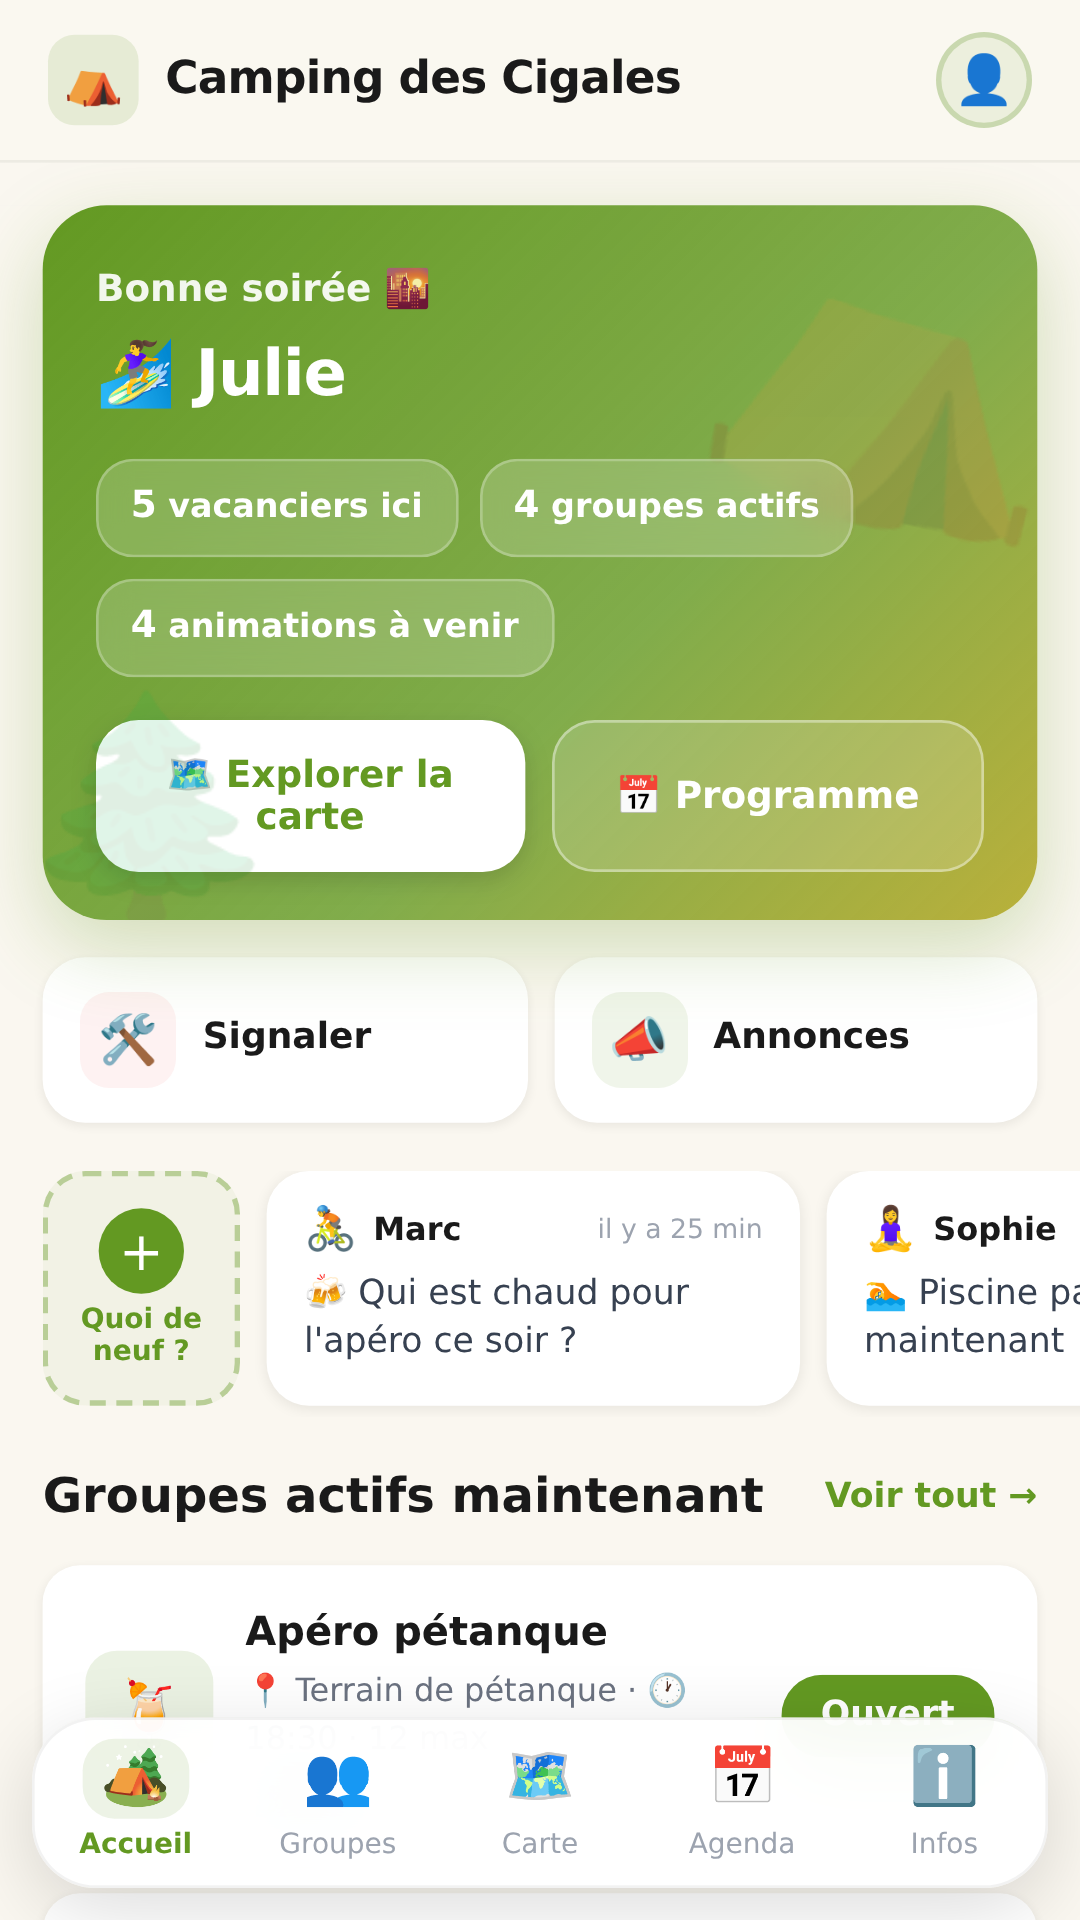
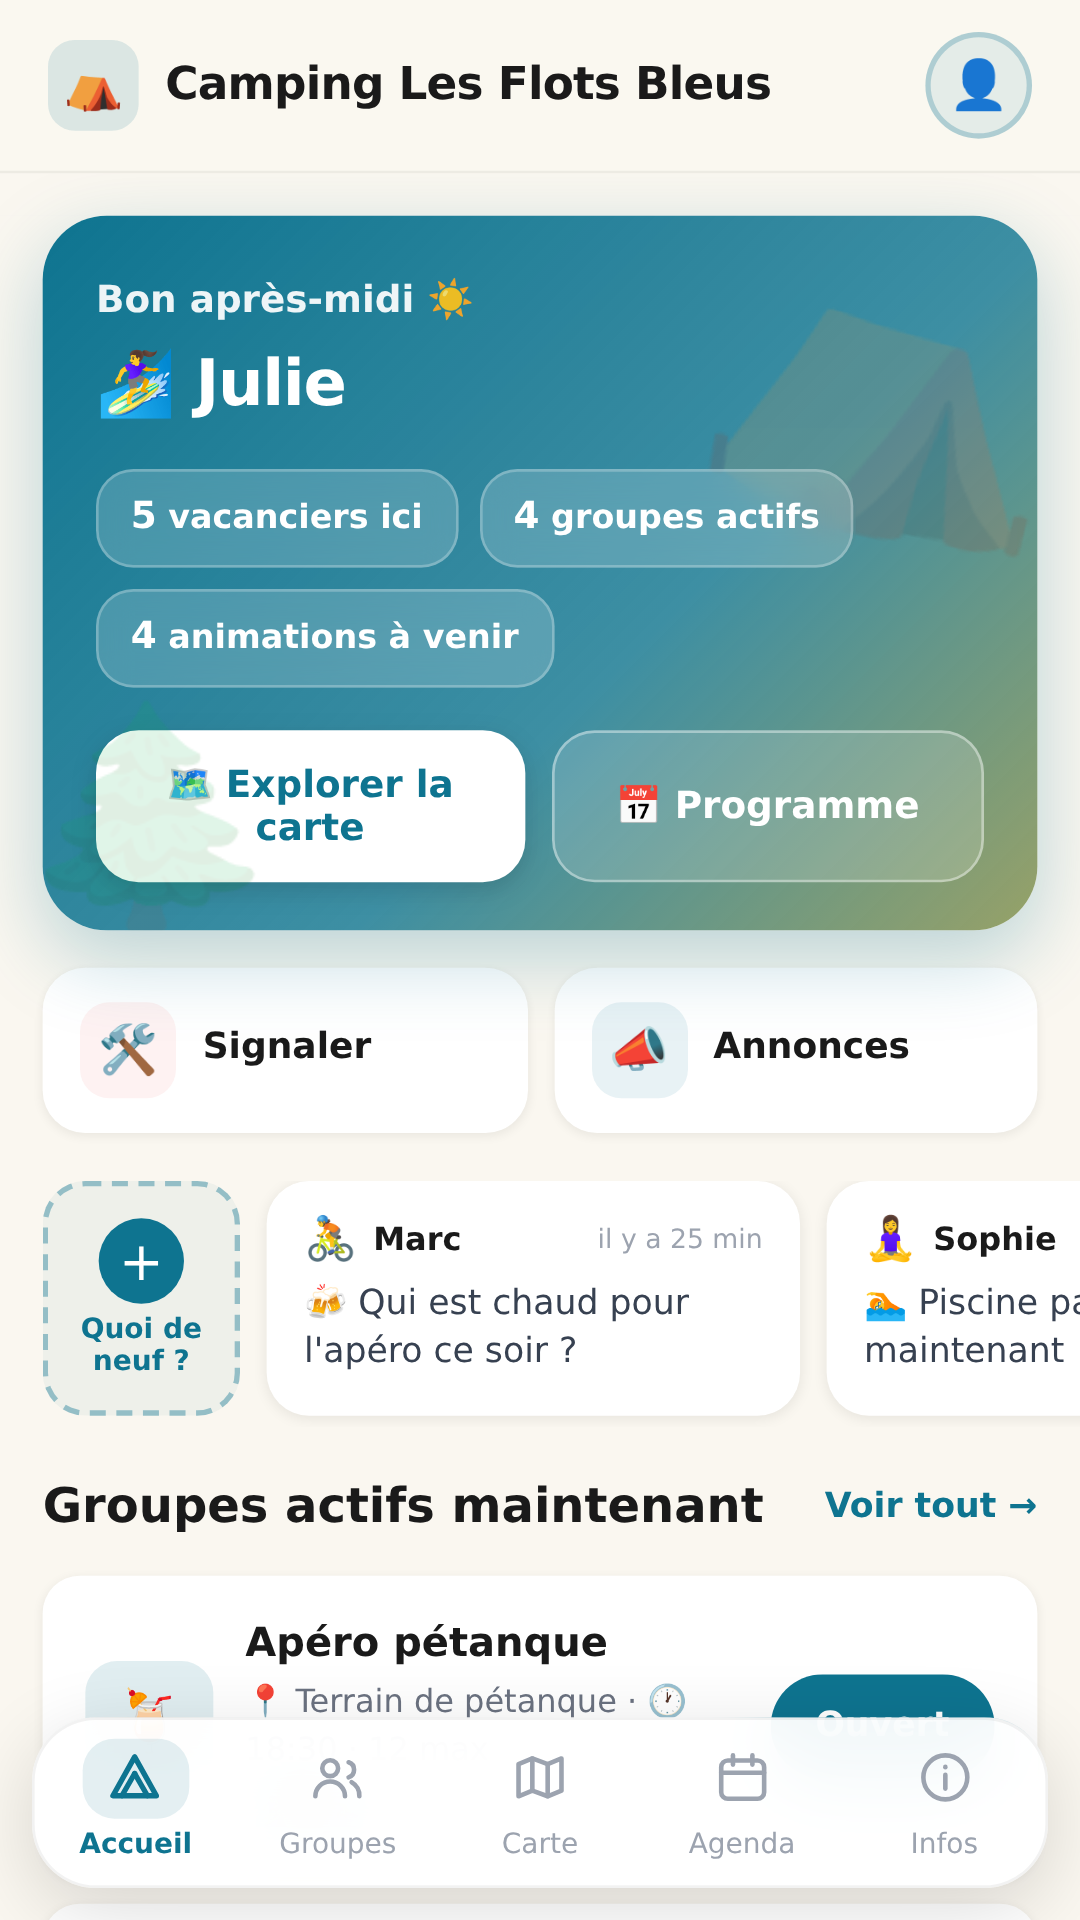
Store: regenere les deux jeux de captures + chat aux couleurs du camping
Les captures Play dataient de 23 commits : elles montraient « Camping des
Cigales », le theme vert et les anciennes icones emoji. Regenerees depuis
l'application actuelle, comme celles de l'App Store.

En les relisant, un ecart avec l'argumentaire est apparu : la fiche Store
promet « un espace aux couleurs de l'etablissement », mais le chat gardait le
vert code en dur — bulles, en-tete, reactions, bouton d'envoi. Il suit
desormais couleur_principale et couleur_secondaire du camping, comme le reste
de l'application. La pastille de l'emoji passe en blanc translucide pour
rester lisible sur n'importe quelle teinte foncee.

Play : 5 captures 1080x1920 (9:16 exact)
App Store : 5 captures 1284x2778 (emplacement 6,5 pouces)

Claude-Session: https://claude.ai/code/session_01KUeF6XC3nSZnGjApgwNZdd

diff --git a/src/pages/Chat.jsx b/src/pages/Chat.jsx
@@ -5,8 +5,13 @@ import { t, useLangue, locale } from '../i18n'
 
 const REACTIONS = ['❤', '😂', '👍', '🔥', '🎉']
 
-export default function Chat({ vacancier }) {
+export default function Chat({ camping, vacancier }) {
   useLangue()
+  // La fiche Store promet « un espace aux couleurs de l'établissement » : le
+  // chat doit suivre la charte du camping comme le reste de l'app, et non
+  // rester sur le vert par défaut.
+  const couleur = camping?.couleur_principale || '#639922'
+  const fonce   = camping?.couleur_secondaire || '#0d1f0d'
   const { groupeId } = useParams()
   const navigate = useNavigate()
   const [groupe, setGroupe]         = useState(null)
@@ -101,7 +106,7 @@ export default function Chat({ vacancier }) {
           en-tête de réserver la place de la barre d'état. Sans ce paddingTop,
           l'heure de l'iPhone recouvre la flèche retour et la rend incliquable. */}
       <div style={{
-        background: '#0d1f0d',
+        background: fonce,
         padding: '12px 16px',
         paddingTop: 'calc(12px + var(--cc-safe-top))',
         display: 'flex', alignItems: 'center', gap: 12,
@@ -110,13 +115,13 @@ export default function Chat({ vacancier }) {
       }}>
         <button
           onClick={() => navigate('/groupes')}
-          style={{ color: '#C0DD97', fontSize: 24, lineHeight: 1, padding: '0 4px', flexShrink: 0 }}
+          style={{ color: '#fff', fontSize: 24, lineHeight: 1, padding: '0 4px', flexShrink: 0 }}
         >
           ‹
         </button>
         <div style={{
           width: 38, height: 38, borderRadius: 10,
-          background: '#1a3a1a',
+          background: 'rgba(255,255,255,0.16)',
           display: 'flex', alignItems: 'center', justifyContent: 'center', fontSize: 20, flexShrink: 0,
         }}>
           {groupe?.emoji || '👥'}
@@ -125,7 +130,7 @@ export default function Chat({ vacancier }) {
           <div style={{ fontWeight: 700, fontSize: 16, color: '#fff', overflow: 'hidden', textOverflow: 'ellipsis', whiteSpace: 'nowrap' }}>
             {groupe?.titre || '...'}
           </div>
-          <div style={{ fontSize: 12, color: '#97C459' }}>
+          <div style={{ fontSize: 12, color: 'rgba(255,255,255,0.72)' }}>
             {nbMembres > 1 ? t('chat.participants', { n: nbMembres }) : t('chat.participant', { n: nbMembres })}
             {groupe?.lieu && ` · 📍 ${groupe.lieu}`}
           </div>
@@ -171,7 +176,7 @@ export default function Chat({ vacancier }) {
                   }}
                 >
                   {showAuthor && auteur && (
-                    <div style={{ fontSize: 11, color: '#639922', marginBottom: 3, marginLeft: 46, fontWeight: 600 }}>
+                    <div style={{ fontSize: 11, color: couleur, marginBottom: 3, marginLeft: 46, fontWeight: 600 }}>
                       {auteur.avatar_emoji} {auteur.pseudo}
                     </div>
                   )}
@@ -198,12 +203,12 @@ export default function Chat({ vacancier }) {
                       <div
                         onClick={() => setPickerFor(pickerFor === msg.id ? null : msg.id)}
                         style={{
-                          background: isMine ? '#639922' : 'rgba(255,255,255,0.92)',
+                          background: isMine ? couleur : 'rgba(255,255,255,0.92)',
                           color: isMine ? '#fff' : '#1a1a1a',
                           padding: '10px 14px',
                           borderRadius: isMine ? '18px 18px 3px 18px' : '18px 18px 18px 3px',
                           fontSize: 15, lineHeight: 1.45,
-                          boxShadow: isMine ? '0 2px 8px rgba(99,153,34,0.27)' : '0 1px 4px rgba(0,0,0,0.08)',
+                          boxShadow: isMine ? `0 2px 8px ${couleur}45` : '0 1px 4px rgba(0,0,0,0.08)',
                           overflowWrap: 'break-word',
                           cursor: 'pointer',
                         }}>
@@ -236,8 +241,8 @@ export default function Chat({ vacancier }) {
                             <button key={e} onClick={() => toggleReaction(msg, e)}
                               style={{
                                 fontSize: 12, padding: '2px 7px', borderRadius: 12,
-                                background: ids.includes(vacancier.id) ? '#63992222' : '#fff',
-                                border: '1px solid ' + (ids.includes(vacancier.id) ? '#639922' : '#e5e7eb'),
+                                background: ids.includes(vacancier.id) ? `${couleur}22` : '#fff',
+                                border: '1px solid ' + (ids.includes(vacancier.id) ? couleur : '#e5e7eb'),
                                 cursor: 'pointer', fontWeight: 600, color: '#374151',
                               }}>
                               {e} {ids.length > 1 ? ids.length : ''}
@@ -297,7 +302,7 @@ export default function Chat({ vacancier }) {
           disabled={!texte.trim() || sending}
           style={{
             width: 44, height: 44, borderRadius: '50%',
-            background: !texte.trim() || sending ? '#e5e7eb' : '#639922',
+            background: !texte.trim() || sending ? '#e5e7eb' : couleur,
             color: '#fff', fontSize: 20,
             display: 'flex', alignItems: 'center', justifyContent: 'center',
             flexShrink: 0, transition: 'background 0.15s',

diff --git a/src/App.jsx b/src/App.jsx
@@ -135,7 +135,7 @@ function App() {
           <Route element={<Layout camping={camping} />}>
             <Route path="/" element={<Accueil camping={camping} vacancier={vacancier} />} />
             <Route path="/groupes" element={<Groupes camping={camping} vacancier={vacancier} />} />
-            <Route path="/chat/:groupeId" element={<Chat vacancier={vacancier} />} />
+            <Route path="/chat/:groupeId" element={<Chat camping={camping} vacancier={vacancier} />} />
             <Route path="/map" element={<Map camping={camping} vacancier={vacancier} />} />
             <Route path="/agenda" element={<Agenda camping={camping} vacancier={vacancier} />} />
             <Route path="/infos" element={<Infos camping={camping} />} />

diff --git a/src/demo/main.jsx b/src/demo/main.jsx
@@ -31,7 +31,7 @@ function DemoApp() {
         <Route path="/infos" element={<Infos camping={c} />} />
         <Route path="/profil" element={<Profil camping={c} vacancier={v} onLogout={() => {}} />} />
       </Route>
-      <Route path="/chat/:groupeId" element={<Chat vacancier={v} />} />
+      <Route path="/chat/:groupeId" element={<Chat camping={c} vacancier={v} />} />
       <Route element={<AdminLayout gerant={{ nom: 'Gérant démo' }} camping={c} onLogout={() => {}} />}>
         <Route path="/admin/overview" element={<Overview camping={c} />} />
       </Route>

diff --git a/src/demo/mockSupabase.js b/src/demo/mockSupabase.js
@@ -28,6 +28,7 @@ export const DEMO_CAMPING = {
   nom: 'Camping Les Flots Bleus',
   slug: 'les-flots-bleus',
   couleur_principale: '#0e7490',
+  couleur_secondaire: '#134e4a',
   logo_url: null,
   plan_url: null,
   carte_config: { center: CENTER, perimeter: PERIMETER, pins: PINS },
